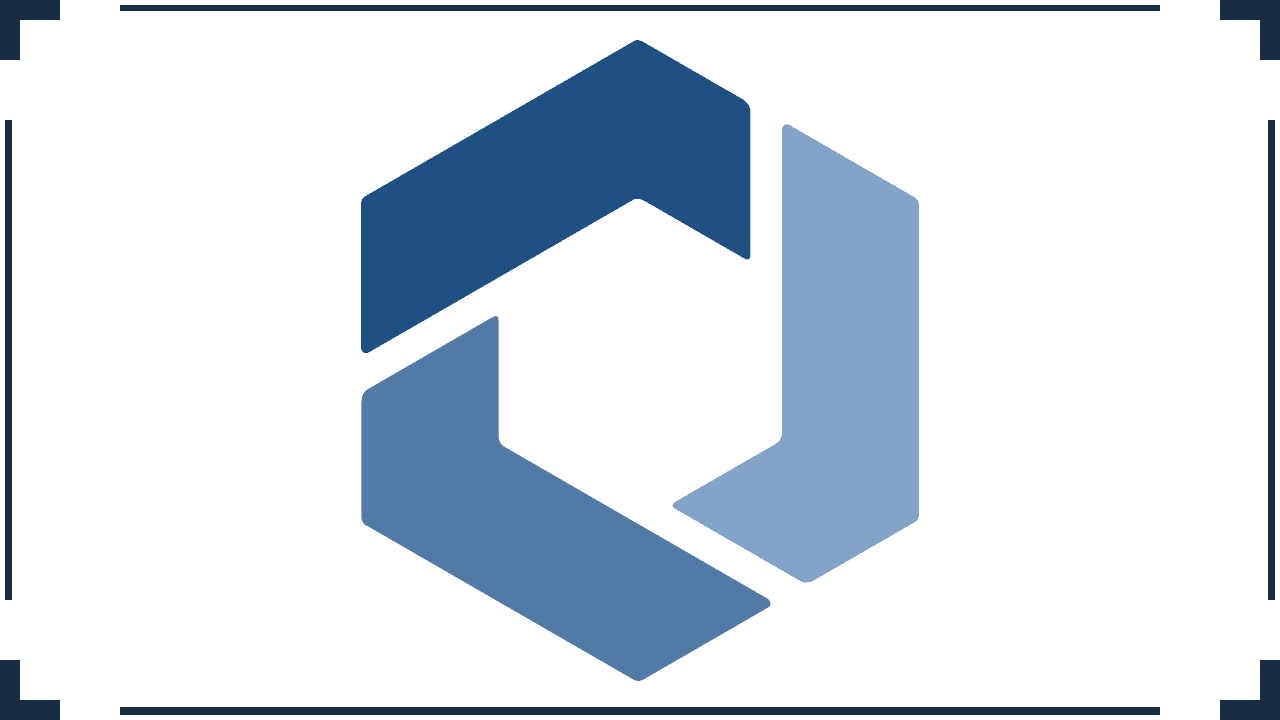
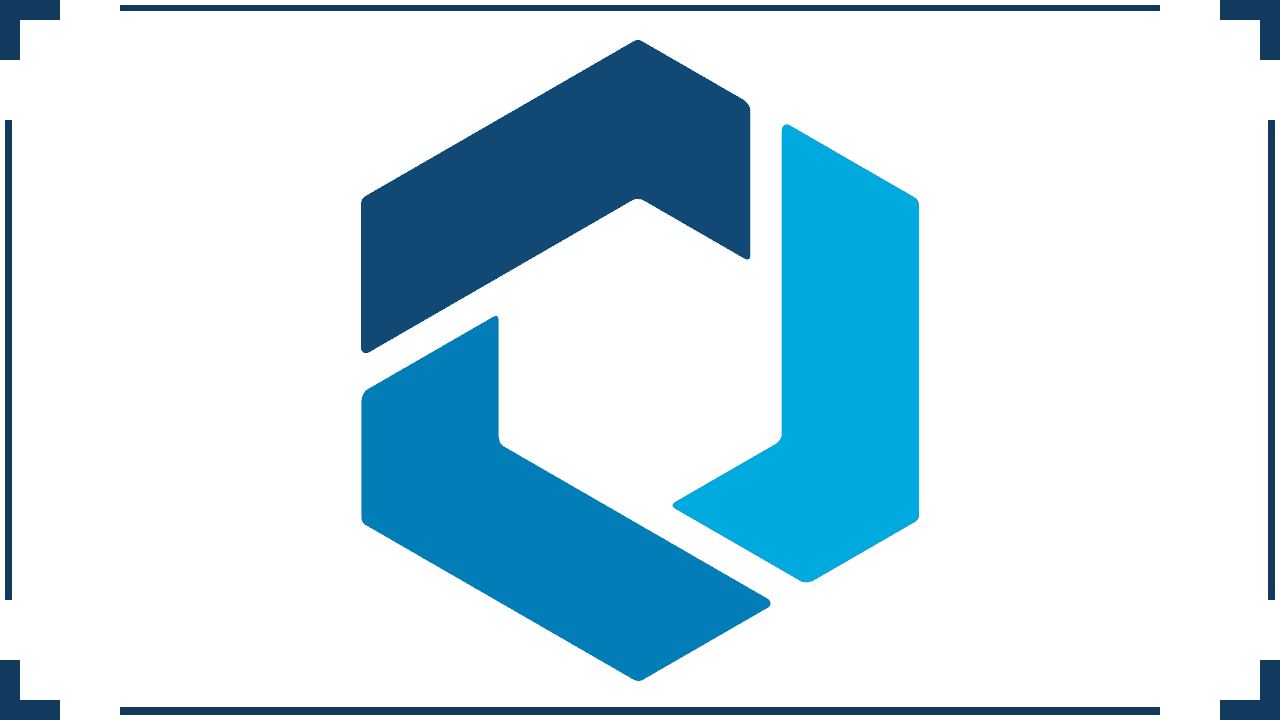
[UPD] default pictures

diff --git a/templates/default/theme/dashboard/dashboard_menus.css b/templates/default/theme/dashboard/dashboard_menus.css
@@ -64,10 +64,10 @@
 		display: inline-block;
 		height: 1.618em;
 		width: 1.618em;
-		background-image: url(../images/logo.png);
+		background-image: url(../images/logo.svg);
 		background-repeat: no-repeat;
 		background-position: center ;
-		background-size: cover;
+		background-size: contain;
 		vertical-align: middle;
 	}
 }

diff --git a/templates/default/theme/dashboard/dashboard_content.css b/templates/default/theme/dashboard/dashboard_content.css
@@ -14,10 +14,10 @@
 	float: right;
 	width: 100px;
 	height: 100px;
-	background-image: url(../images/logo.png);
+	background-image: url(../images/logo.svg);
 	background-repeat: no-repeat;
 	background-position: center ;
-	background-size: cover;
+	background-size: contain;
 }
 
 /* --- System report --- */

diff --git a/templates/default/theme/shape.css b/templates/default/theme/shape.css
@@ -87,7 +87,7 @@ body {
 #site-logo {
 	width: 60px;
 	height: 60px;
-	background-image: url(images/logo.png);
+	background-image: url(images/logo.svg);
 	background-position: center;
 	background-repeat: no-repeat;
 	background-size: contain;
